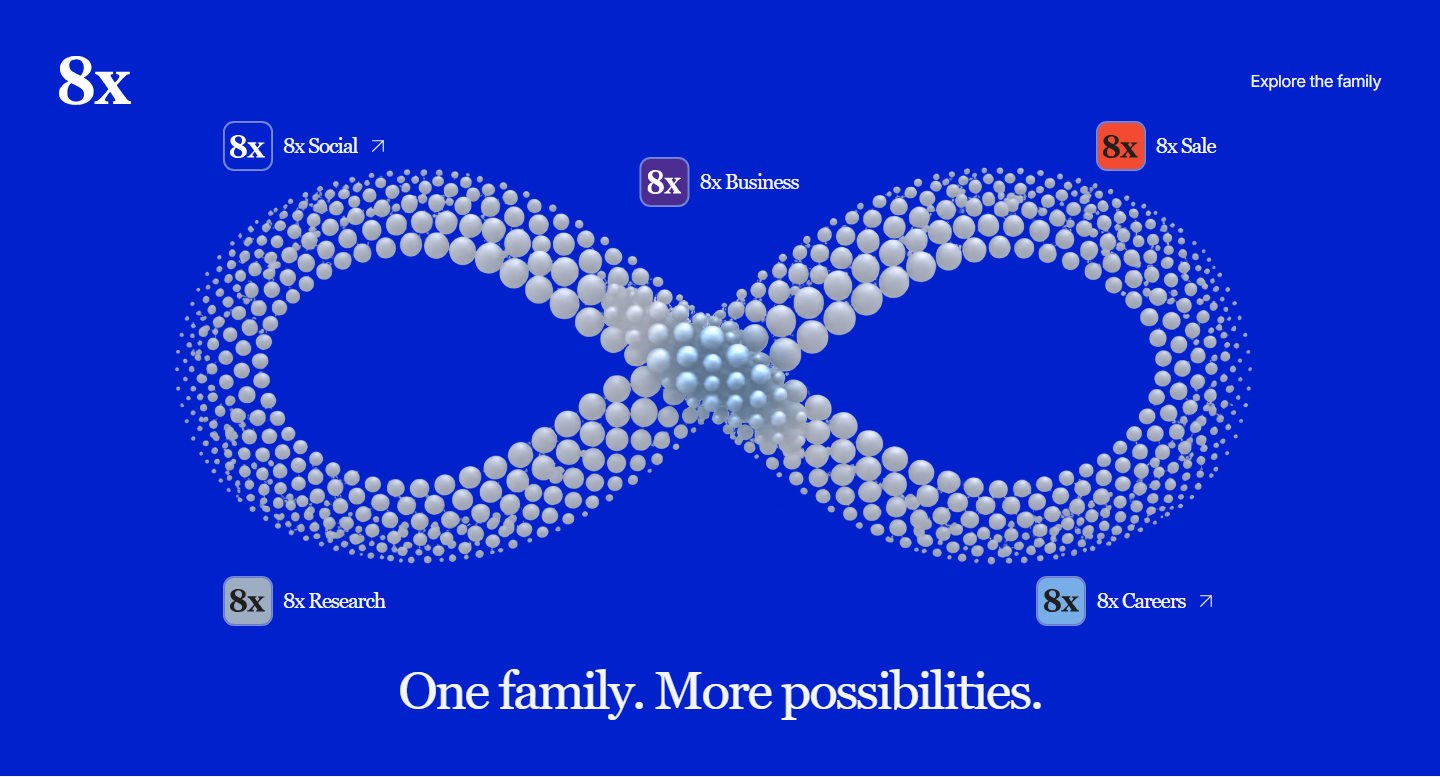
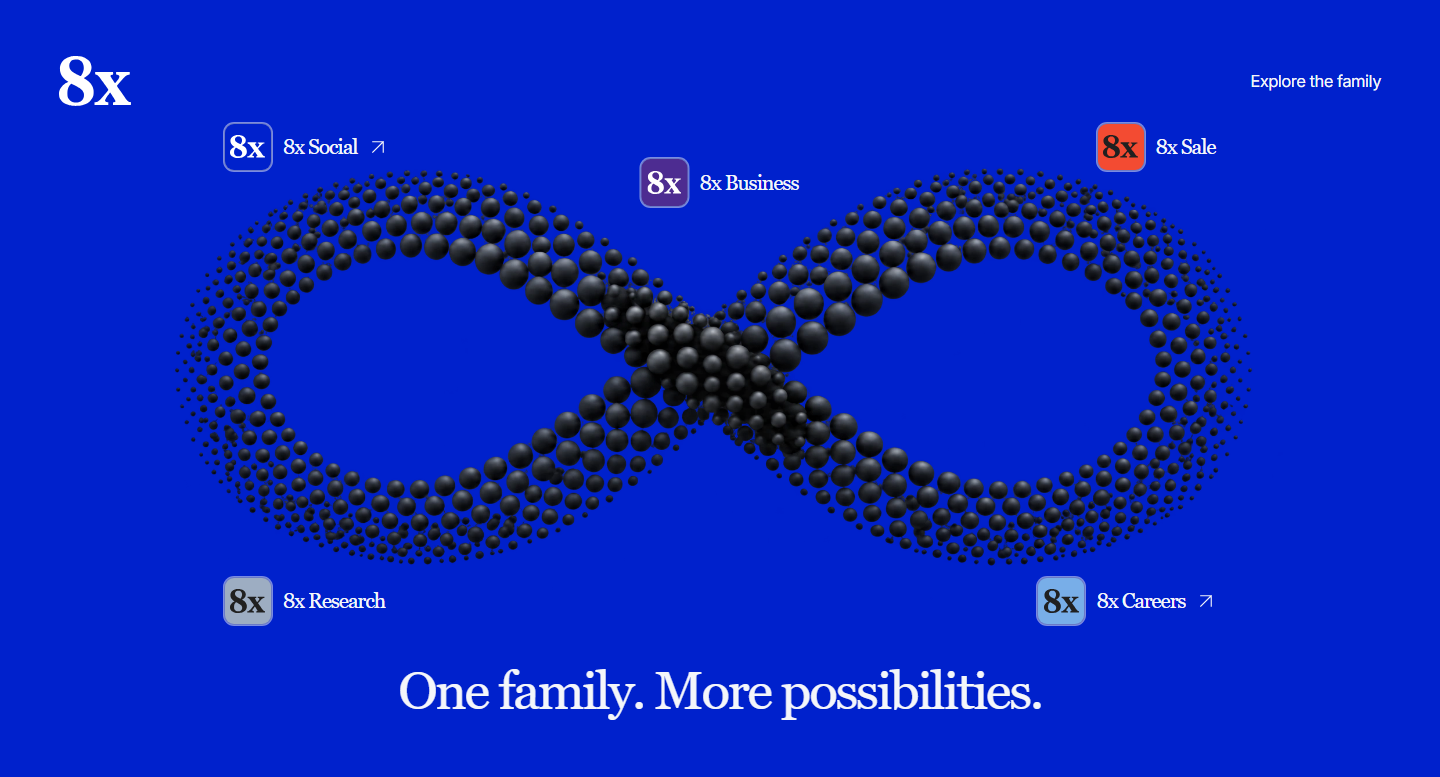
Restore cobalt family surface with black graphite infinity

diff --git a/components/family-infinity.tsx b/components/family-infinity.tsx
@@ -13,7 +13,7 @@ const products=[
   {id:'research',name:'Research',colour:'#9DADC2',href:undefined},
 ];
 
-export function FamilyInfinity({theme='carbon',id='family'}:{theme?:FamilyTheme;id?:string}) {
+export function FamilyInfinity({theme='cobalt',id='family'}:{theme?:FamilyTheme;id?:string}) {
   const root=useRef<HTMLElement>(null),scene=useRef<SVGGElement>(null),light=useRef<SVGGElement>(null),front=useRef<SVGGElement>(null);
   const unique=useId().replace(/:/g,'');
   const palette=familyThemes[theme];
@@ -54,7 +54,7 @@ export function FamilyInfinity({theme='carbon',id='family'}:{theme?:FamilyTheme;
     <div className="fi-inner">
       <div className="fi-top"><img src="/8x.svg" alt="8x" width="386" height="264" /><span>Explore the family</span></div>
       <div className="fi-composition">
-        <div className="fi-art" role="img" aria-label="A sculpted infinity with a slow colour current and gently breathing image layers.">
+        <div className="fi-art" role="img" aria-label={theme==='cobalt'?'A black graphite infinity with softly lit spheres and gently breathing image layers.':'A sculpted infinity with a slow colour current and gently breathing image layers.'}>
           <svg className="fi-image-scene" viewBox="0 0 1984 793" aria-hidden="true">
             <defs>
               <filter id={`${unique}-colour`} colorInterpolationFilters="sRGB"><feColorMatrix type="matrix" values={colourMatrix}/></filter>
@@ -67,7 +67,7 @@ export function FamilyInfinity({theme='carbon',id='family'}:{theme?:FamilyTheme;
             <g ref={scene}>
               <image className="fi-base-image" href={asset} width="1984" height="793" filter={palette.light?`url(#${unique}-pale)`:undefined}/>
               <g ref={front} mask={`url(#${unique}-front)`}><image href={asset} width="1984" height="793" filter={palette.light?`url(#${unique}-pale)`:undefined}/></g>
-              <image className="fi-colour-image" href={asset} width="1984" height="793" filter={`url(#${unique}-colour)`} mask={`url(#${unique}-current)`}/>
+              <image className="fi-colour-image" href={asset} width="1984" height="793" opacity={theme==='cobalt'?.12:1} filter={`url(#${unique}-colour)`} mask={`url(#${unique}-current)`}/>
             </g>
           </svg>
         </div>

diff --git a/app/family-infinity.css b/app/family-infinity.css
@@ -7,6 +7,6 @@
 .family-infinity[data-theme=carbon]{color-scheme:dark}
 .family-infinity[data-theme=carbon] .fi-top>img{filter:brightness(0) invert(1)}
 .family-infinity[data-theme=carbon] .fi-icon{box-shadow:0 0 0 1px #ffffff38,0 3px 12px #0003}
-.site-header[data-family=true][data-ending=false]{--nav-surface:#111111!important}
+.site-header[data-family=true][data-ending=false]{--nav-surface:#0021cc!important}
 @media(max-width:760px){.family-infinity{padding:38px var(--gutter) 52px}.fi-composition{padding:0;margin-top:30px}.fi-art{width:calc(100% + 24px);margin-left:-12px}.fi-products{display:grid;grid-template-columns:repeat(2,minmax(0,1fr));gap:16px 12px;margin-top:18px}.fi-product{position:static;transform:none;white-space:normal;font-size:16px;letter-spacing:-.035em}.fi-product>a,.fi-label{gap:10px;min-height:48px}.fi-icon{width:34px;border-radius:7px}.fi-product svg{width:14px;height:14px;flex:none}.family-infinity h2{margin-top:32px;font-size:clamp(30px,6vw,42px)}.fi-business{order:1}.fi-sale{order:2}.fi-careers{order:3}.fi-research{order:4}}
 @media(prefers-reduced-motion:reduce){.family-infinity *{scroll-behavior:auto}}

diff --git a/app/blue-theme.css b/app/blue-theme.css
@@ -17,7 +17,7 @@ html[data-story-dark=true] .site-header[data-surface=stone] .brand img{filter:br
 .site-header[data-ending=true] .brand img{filter:none!important}
 .site-header[data-ending=true] .nav-link{color:#4b5263!important}
 .site-header[data-ending=true] .nav-link[aria-current],.site-header[data-ending=true] .nav-contact{color:var(--signal)!important}
-.site-header[data-family=true][data-ending=false]{--nav-surface:#111111!important;color:white}
+.site-header[data-family=true][data-ending=false]{--nav-surface:#0021cc!important;color:white}
 .site-header[data-family=true][data-ending=false] .brand img{filter:brightness(0) invert(1)}
 .site-header[data-family=true][data-ending=false] :is(.nav-link,.nav-contact){color:#fff!important}
 .site-header[data-family=true][data-ending=false] .nav-link::after{background:#fff}

diff --git a/tests/blue-palette.spec.ts b/tests/blue-palette.spec.ts
@@ -12,7 +12,7 @@ test('blue surfaces, controls and shared transition retain readable contrast',as
   await expect(page.locator('.hero-cta')).toHaveCSS('color','rgb(255, 255, 255)');
   for(const id of ['services','dashboard','reach-atlas','family']){
     const section=page.locator('#'+id);await section.evaluate(el=>scrollTo({top:el.getBoundingClientRect().top+scrollY-96,behavior:'instant'}));
-    await expect(section).toHaveCSS('background-color',id==='family'?'rgb(17, 17, 17)':'rgb(0, 33, 204)');
+    await expect(section).toHaveCSS('background-color','rgb(0, 33, 204)');
     const colours=await section.evaluate(el=>{const c=getComputedStyle(el);return [c.color,c.backgroundColor]});
     expect(contrast(colours[0],colours[1]),id).toBeGreaterThan(4.5);
     await page.screenshot({path:`docs/qa/blue-${id}-desktop.png`});

diff --git a/components/scroll-thread.tsx b/components/scroll-thread.tsx
@@ -23,8 +23,7 @@ export function ScrollThread() {
       const map = document.getElementById('reach-atlas')?.getBoundingClientRect();
       const family = document.getElementById('family')?.getBoundingClientRect();
       const services = document.getElementById('services')?.getBoundingClientRect();
-      rail.dataset.surface = family && family.top <= middle && family.bottom >= middle ? 'carbon'
-        : map && (services ?? map).top <= middle && map.bottom >= middle ? 'blue'
+      rail.dataset.surface = map && (services ?? map).top <= middle && (family?.bottom ?? map.bottom) >= middle ? 'blue'
         : stone && stone.getBoundingClientRect().top <= middle ? 'stone' : 'carbon';
     };
     const queue = () => { if (!frame) frame = requestAnimationFrame(update); };

diff --git a/lib/family-surface.ts b/lib/family-surface.ts
@@ -1,6 +1,6 @@
 export const familyThemes = {
   carbon:{surface:'#111111',ink:'#F4F6FA',accent:'#DCE2EC',light:true},
-  cobalt:{surface:'#0021CC',ink:'#F4F6FA',accent:'#A6CFFF',light:true},
+  cobalt:{surface:'#0021CC',ink:'#F4F6FA',accent:'#343842',light:false},
   polar:{surface:'#F4F6FA',ink:'#171922',accent:'#FFD438',light:false},
   social:{surface:'#FFD438',ink:'#171922',accent:'#F4F6FA',light:false},
   business:{surface:'#4D2C91',ink:'#F4F6FA',accent:'#FFD438',light:true},

diff --git a/design/CURRENT-DIRECTION.md b/design/CURRENT-DIRECTION.md
@@ -1,3 +1,5 @@
+September 29 correction: the user clarified that the SECTION must remain cobalt blue and only the INFINITY must be black. The approved preview uses the original graphite image with its natural highlights, no pale/silver filter, a restrained neutral current, white type and unchanged full-colour product icons. Homepage default is cobalt again; navigation and Scroll Thread follow the blue ground. Implementing and pushing this correction is explicitly authorized. This supersedes the mistaken black-background change below.
+
 September 29: user requested a black family/infinity section and explicitly authorized a Git push. The homepage now uses Carbon #111111, silver image layers and a neutral light accent. All five product-logo colours and existing layered motion remain. Navigation matches the black surface; Scroll Thread uses its carbon treatment here. The preceding map remains cobalt and the information footer stays paper. This supersedes the cobalt-family direction below.
 
 September 25: approved black-and-blue rebrand is implemented locally from origin/main 82fa59e. Primary blue #0021CC is sampled from the live 8x.social primary buttons. Carbon hero, blue/silver photo and five cool portrait inks; cool paper editorial content; cobalt services/dashboard/map/family with white ink. Preserve animations and geometry. Other product identity colours remain intentional, including Sale orange. Local only, no push/deploy requested. See docs/BLUE-REBRAND.md. This supersedes older orange/yellow palette instructions below.

diff --git a/AGENTS.md b/AGENTS.md
@@ -1,3 +1,5 @@
+September 29 correction: the user clarified that the SECTION must remain cobalt blue and only the INFINITY must be black. The approved preview uses the original graphite image with its natural highlights, no pale/silver filter, a restrained neutral current, white type and unchanged full-colour product icons. Homepage default is cobalt again; navigation and Scroll Thread follow the blue ground. Implementing and pushing this correction is explicitly authorized. This supersedes the mistaken black-background change below.
+
 September 29: user requested a black family/infinity section and explicitly authorized a Git push. The homepage now uses Carbon #111111, silver image layers and a neutral light accent. All five product-logo colours and existing layered motion remain. Navigation matches the black surface; Scroll Thread uses its carbon treatment here. The preceding map remains cobalt and the information footer stays paper. This supersedes the cobalt-family direction below.
 
 September 25 dashboard polish release: user explicitly requested saving and pushing all current local work. Includes filters, raster transitions, Content plan redesign, bell refinement, popup/dialog family, CSV/PDF reports and native blue scrollbars. Push this release to main; prior local-only notes for these changes are superseded. Future changes still require fresh push authorization. Production build and targeted checks passed; see docs/DASHBOARD-WORKSPACE.md.

diff --git a/docs/FAMILY-CURRENT.md b/docs/FAMILY-CURRENT.md
@@ -1,3 +1,5 @@
+September 29 correction: the user clarified that the SECTION must remain cobalt blue and only the INFINITY must be black. The approved preview uses the original graphite image with its natural highlights, no pale/silver filter, a restrained neutral current, white type and unchanged full-colour product icons. Homepage default is cobalt again; navigation and Scroll Thread follow the blue ground. Implementing and pushing this correction is explicitly authorized. This supersedes the mistaken black-background change below.
+
 September 29: user requested a black family/infinity section and explicitly authorized a Git push. The homepage now uses Carbon #111111, silver image layers and a neutral light accent. All five product-logo colours and existing layered motion remain. Navigation matches the black surface; Scroll Thread uses its carbon treatment here. The preceding map remains cobalt and the information footer stays paper. This supersedes the cobalt-family direction below.
 
 # Shared 8x infinity — September 21
